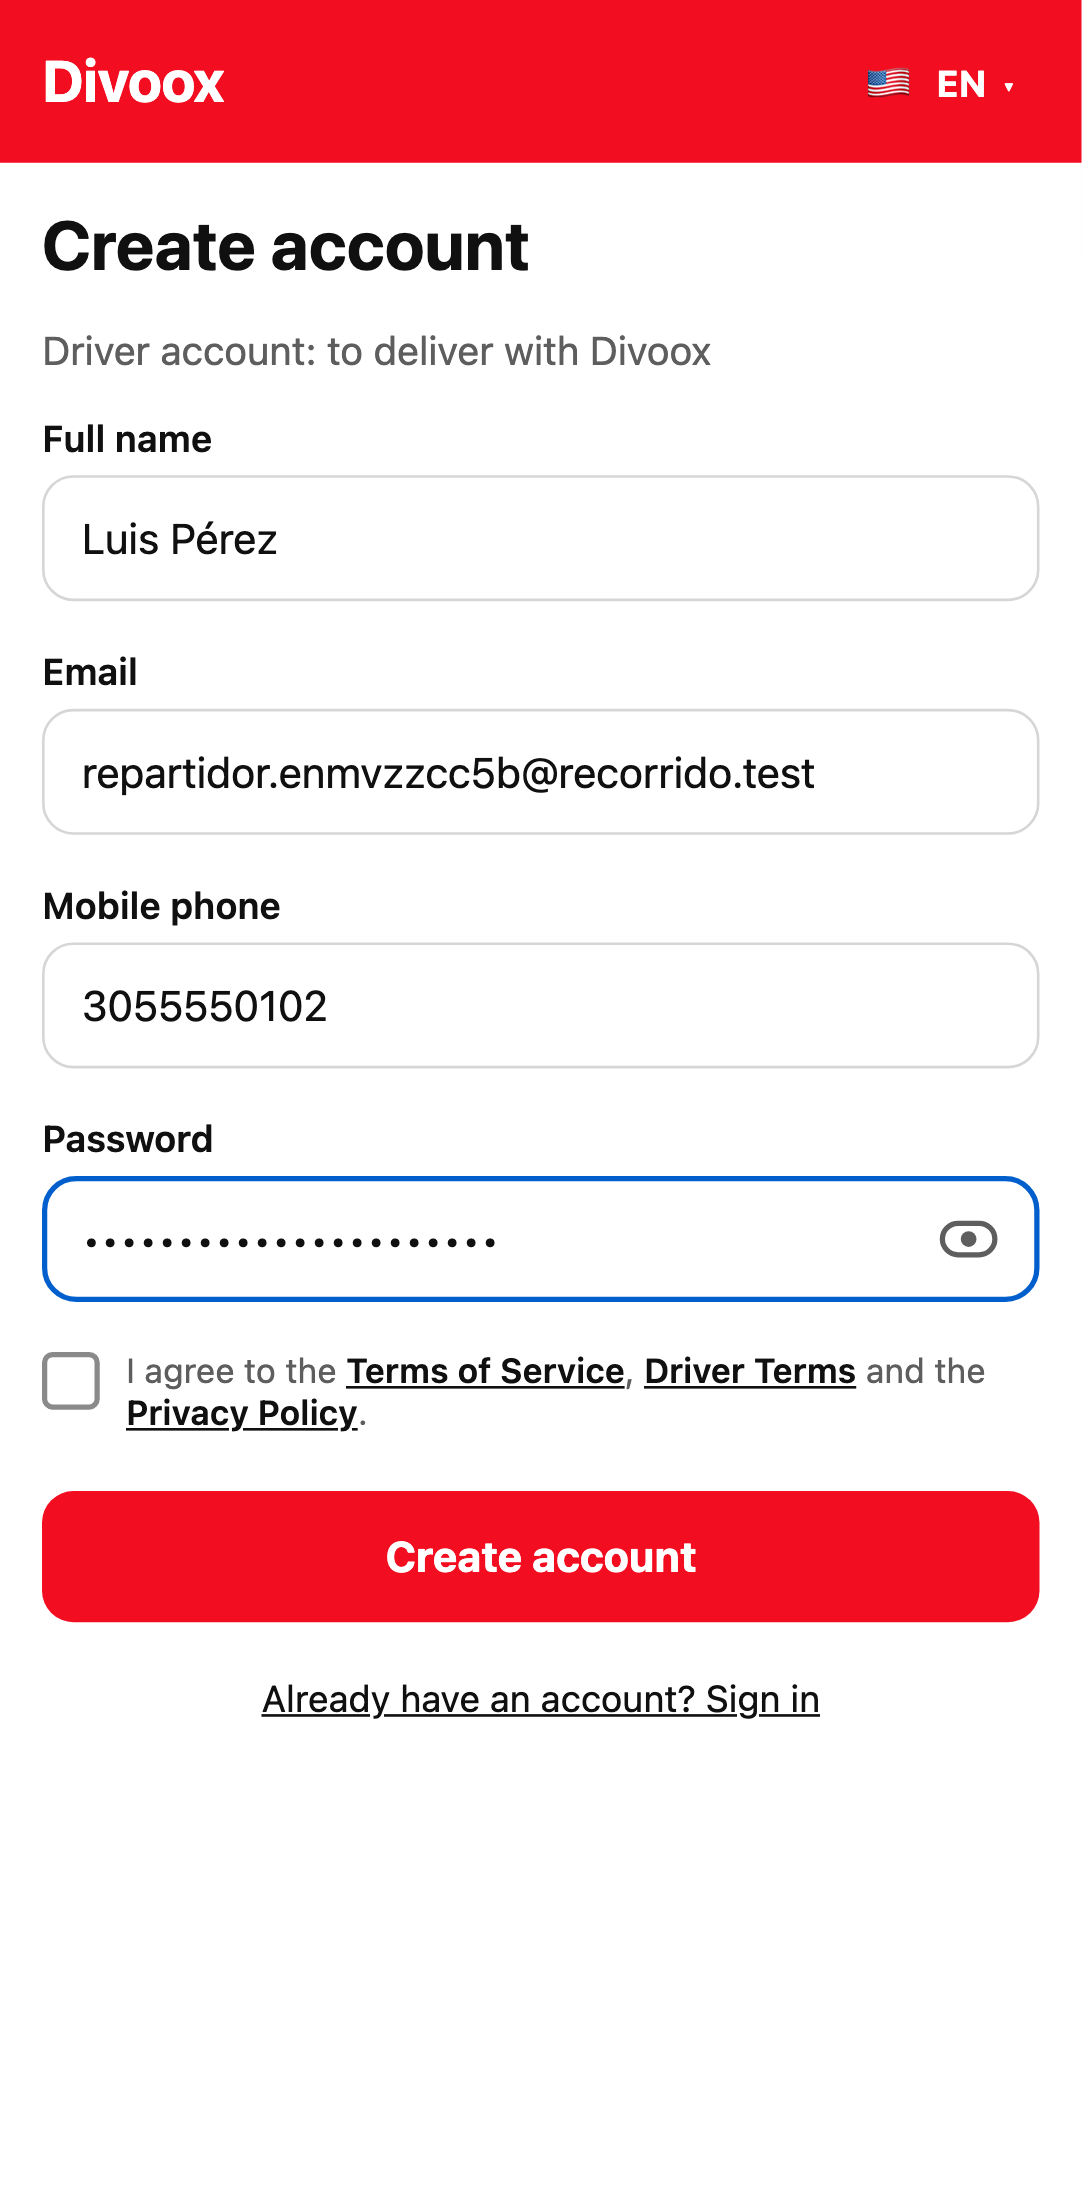
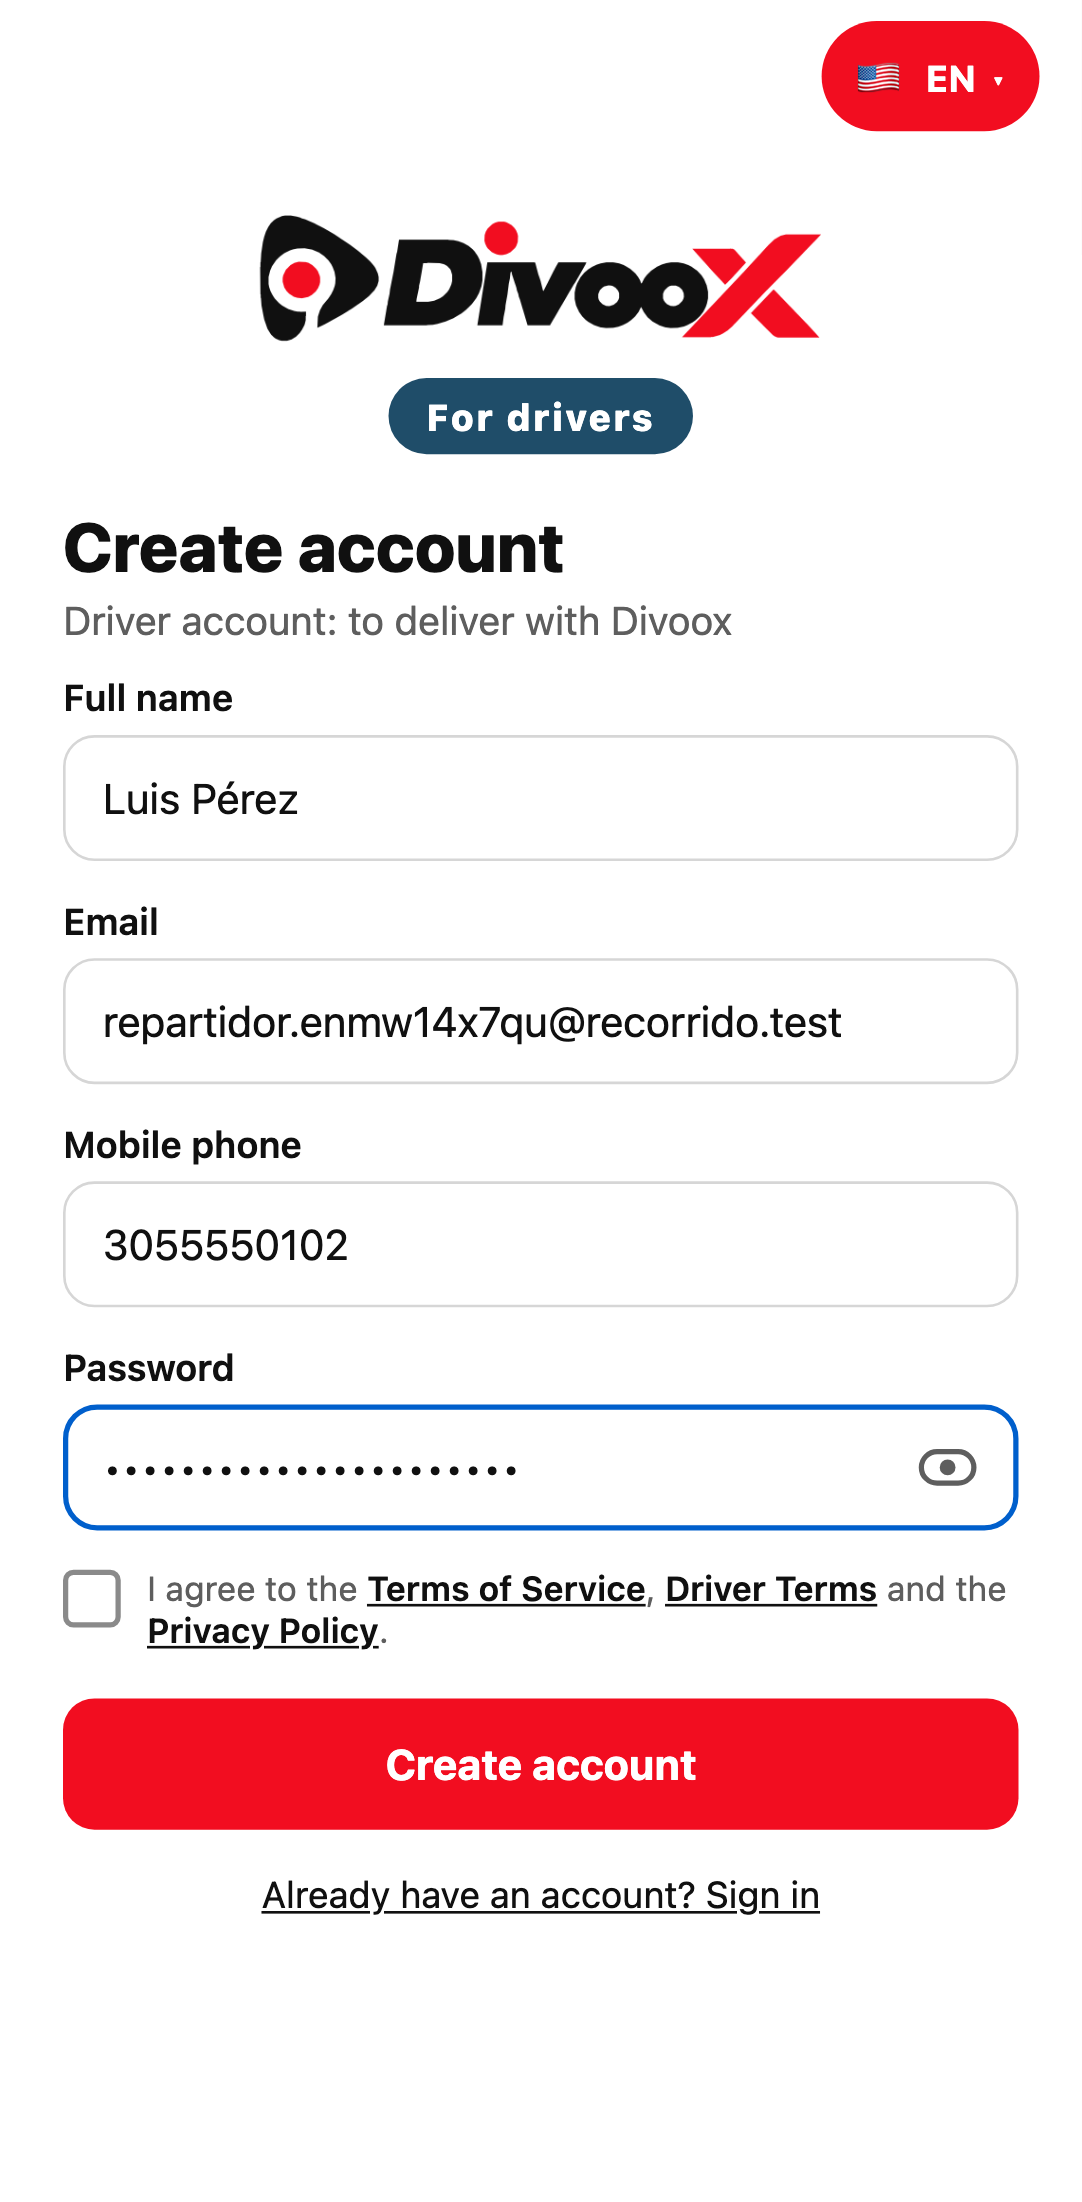
feat(driver): la pantalla de entrar de Driver tiene su propia portada azul «For drivers» y no la cabecera roja del cliente; guion final de los videos para Apple (C-ICONOS-POR-APP) — todos los países

diff --git a/apps/repartidor/src/app/index.tsx b/apps/repartidor/src/app/index.tsx
@@ -1,6 +1,39 @@
-import { ActivityIndicator, View } from 'react-native';
+import { ActivityIndicator, Image, Text, View } from 'react-native';
 import { Acceso, C, useSesion } from '@tumbite/movil';
 import { Inicio } from '../Inicio';
+import { IMG } from '../piezas/recursos';
+
+/**
+ * C-ICONOS-POR-APP (3 nov 2026, lámina aprobada por Richard): Driver entra con su propia portada en
+ * el azul de logística, que dice para quién es, y no con la cabecera roja del cliente. Apple leyó
+ * las tres apps como copias (4.3) en parte porque la primera pantalla era igual.
+ */
+function Portada() {
+  const { idioma } = useSesion();
+  return (
+    <View style={{ alignItems: 'center', marginBottom: 20 }}>
+      <Image
+        source={IMG.logo}
+        style={{ width: 220, height: 64 }}
+        resizeMode="contain"
+        accessibilityLabel="Divoox Driver"
+      />
+      <View
+        style={{
+          backgroundColor: C.logistica,
+          borderRadius: 999,
+          paddingHorizontal: 14,
+          paddingVertical: 6,
+          marginTop: 6,
+        }}
+      >
+        <Text style={{ color: '#FFFFFF', fontWeight: '700', fontSize: 14, letterSpacing: 1 }}>
+          {idioma === 'en' ? 'For drivers' : 'Para repartidores'}
+        </Text>
+      </View>
+    </View>
+  );
+}
 
 export default function Entrada() {
   const { cargando, usuario } = useSesion();
@@ -11,12 +44,12 @@ export default function Entrada() {
           flex: 1,
           alignItems: 'center',
           justifyContent: 'center',
-          backgroundColor: C.primario,
+          backgroundColor: C.logistica,
         }}
       >
         <ActivityIndicator color="#FFFFFF" size="large" />
       </View>
     );
   }
-  return usuario ? <Inicio /> : <Acceso rolRegistro="repartidor" />;
+  return usuario ? <Inicio /> : <Acceso rolRegistro="repartidor" portada={<Portada />} />;
 }

diff --git a/apps/servidor/src/iconosApps.test.ts b/apps/servidor/src/iconosApps.test.ts
@@ -31,3 +31,16 @@ describe('C-ICONOS-POR-APP', () => {
     expect(fondoAndroid(app)).toBe(color);
   });
 });
+
+describe('C-ICONOS-POR-APP: la primera pantalla de Driver no es la del cliente', () => {
+  it('Driver entra con su propia portada azul que dice para quién es', () => {
+    const entrada = readFileSync(raiz('apps/repartidor/src/app/index.tsx'), 'utf8');
+    expect(entrada).toMatch(/<Acceso rolRegistro="repartidor" portada=\{<Portada \/>\} \/>/);
+    expect(entrada).toContain('C.logistica');
+    expect(entrada).toMatch(/For drivers/);
+    // Con portada, el formulario sigue diciendo si es «Crear cuenta» o «Entrar».
+    expect(readFileSync(raiz('packages/movil/src/Acceso.tsx'), 'utf8')).toMatch(
+      /portada && rolRegistro \?/,
+    );
+  });
+});

diff --git a/packages/movil/src/Acceso.tsx b/packages/movil/src/Acceso.tsx
@@ -133,6 +133,15 @@ export function Acceso({
     );
   return marco(
     <>
+      {/* Con portada propia (Driver), el título de «Crear cuenta» o «Entrar» va aquí. */}
+      {portada && rolRegistro ? (
+        <Text
+          accessibilityRole="header"
+          style={{ fontWeight: '700', fontSize: 26, color: C.secundario, marginBottom: 4 }}
+        >
+          {registro ? t.crearCuenta : t.entrar}
+        </Text>
+      ) : null}
       {rolRegistro ? (
         // Que se sepa siempre qué cuenta se crea o se usa: de cliente o de repartidor.
         <Text

diff --git a/docs/tiendas/GUION-VIDEOS-APPLE.md b/docs/tiendas/GUION-VIDEOS-APPLE.md
@@ -1,0 +1,52 @@
+# Guion de los tres videos para Apple (versión final, 3 nov 2026)
+
+Complementa el guion de Gerencia (GUION-VIDEOS-APPLE-DIVOOX, en la carpeta Gerencia). Aquí van los nombres exactos de los botones en inglés, una lámina por video con la captura de cada paso, y cómo se hace el pedido de prueba sin cobro real.
+
+Se graba con las compilaciones de TestFlight que traen los íconos nuevos (cliente rojo, Driver azul, Restaurants negro). Gerencia avisa cuándo están.
+
+## El pedido de prueba sin cobro real: qué quedó
+
+Producción cobra con Stripe en vivo, y la tarjeta de prueba no funciona ahí. Probar con una tarjeta real está prohibido (regla del proyecto). Activar el efectivo en Estados Unidos sería cambiar la configuración de dinero del país entero, así que se descartó. Queda así, con lo que ya existe y ya tiene candado:
+
+1. **Restaurants: «Send a test order»**, igual que el «Create test order» de DoorDash Merchant (candado C-PEDIDO-PRUEBA, en producción desde el 2 nov). Llega un pedido de mentira con platos del menú, con su alarma y la insignia «TEST». El restaurante lo acepta, lo marca listo y lo termina con «Finish the test». No se cobra nada, no se manda repartidor y no cuenta en las ventas. Vive en su propia tabla, fuera de la conciliación y de los pagos.
+2. **Cliente: se llega hasta la hoja de pago y se cierra sin pagar.** Así lo dicen las notas para el revisor desde el 31 oct: «Paying is optional for review: everything up to the payment sheet can be reviewed without a charge». Las compras son bienes físicos y servicios entregados en persona, por eso van con Stripe y no con las compras dentro de la app de Apple.
+3. **Driver: sin oferta real en el video.** Una oferta solo existe cuando hay un pedido pagado en la zona. El video muestra conectarse, el mapa con las zonas, las ganancias y la billetera, y las notas lo explican. Si Gerencia quiere que el video muestre una oferta, el camino como los grandes es una «entrega de práctica» del repartidor, con su propia tabla, sin dinero, igual que el pedido de prueba del restaurante. Es una función nueva: se haría con su ficha REA y su candado, solo si Gerencia lo ordena.
+
+## Video 1: Divoox (clientes), ícono rojo
+
+![Pasos del video del cliente](guion-video-cliente.png)
+
+1. Pantalla de inicio del iPhone → tocar el ícono rojo de **Divoox**.
+2. **«New here? Create your account»** → «Full name», «Email» (un correo nuevo), «Mobile phone», «Password» → marcar «I agree to the Terms of Service…» → **«Create account»**.
+3. Arriba, **«Deliver to»** → escribir 1 SE 3rd Ave, Miami, FL 33131 y elegir la sugerencia.
+4. Tocar **«Food»** → abrir **«Divoox Review Kitchen»** (tiene que estar abierta la app Restaurants con su cuenta; si no, sale cerrado).
+5. Tocar **«+»** en dos platos → abrir el carrito → mostrar «Food», «Delivery», «Service fee», «Tip for your driver» y «Total» → **«Continue to payment»** → cerrar la hoja de pago sin pagar.
+6. Pestaña **«My account»** → **«Sign out»** → **«Sign in»** con el mismo correo.
+7. **«My account»** → **«⋮»** junto a «Your account» → **«Delete account»** → escribir **DELETE** → **«Delete my account»** → la app vuelve a la pantalla de entrar.
+
+## Video 2: Divoox Driver (repartidores), ícono azul
+
+![Pasos del video de Driver](guion-video-repartidor.png)
+
+1. Pantalla de inicio del iPhone → tocar el ícono azul de **Divoox Driver**. La pantalla de entrar dice «For drivers» en azul.
+2. **«New here? Create your account»** → nombre, correo nuevo, celular y clave → aceptar los términos → **«Create account»** → mostrar el primer paso del alta (vehículo y documentos), sin datos reales.
+3. **«Profile»** → **«Sign out»** → **«Sign in»** con la cuenta de revisión del repartidor.
+4. Aceptar los permisos de ubicación cuando la app los explique → tocar **«Offline · Tap to become available»** → queda «Online: receiving orders» y se ve el mapa.
+5. Pestaña **«Earnings»** (Today, Week, Month) → la billetera: **«See my wallet and activity»**.
+6. **«Profile»** → **«Sign out»** → entrar con la cuenta nueva del paso 2 → **«⋮»** junto a «Your account» → **«Delete account»** → escribir **DELETE** → **«Delete my account»**.
+
+## Video 3: Divoox Restaurants (restaurantes), ícono negro
+
+![Pasos del video de Restaurants](guion-video-restaurante.png)
+
+1. Pantalla de inicio del iPhone → tocar el ícono negro de **Divoox Restaurants**.
+2. Mostrar el texto «Restaurant accounts are created at divoox.com/panel» → **«Sign in»** con la cuenta de revisión del restaurante.
+3. En el inicio → **«Send a test order»**.
+4. Suena la alarma y llega el pedido con la insignia **«TEST»** → **«Accept order · 20 min»**.
+5. **«Mark as ready»** → **«Finish the test»**.
+6. Pestaña **«Menu»** → pausar un plato y volver a activarlo → **«Stats»**.
+7. **«More»** → **«⋮»** junto a «Your account» → **«Delete account»** → mostrar la confirmación → **«Cancel»** (la cuenta de revisión no se borra).
+
+## Las cuentas
+
+Qué cuenta va en cada app y en qué orden está en el archivo privado de cuentas de prueba (docs/CUENTAS-DE-PRUEBA.md, fuera de git). Las contraseñas no van en el chat.
